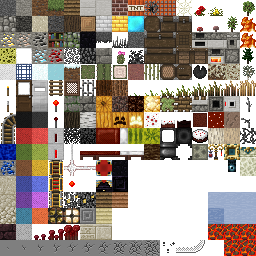
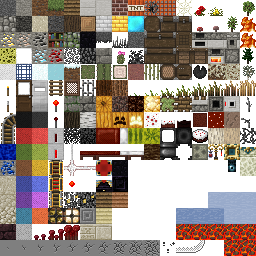
Add light shader and light render effect Add liquid animation and liquid render effect Modify the texture for liquid.

Changed region(s): [[0.6875, 0.8125, 0.8125, 0.9375]]

diff --git a/src/main/java/org/spout/vanilla/render/LightBatchEffect.java b/src/main/java/org/spout/vanilla/render/LightBatchEffect.java
@@ -1,3 +1,29 @@
+/*
+ * This file is part of Vanilla.
+ *
+ * Copyright (c) 2011-2012, VanillaDev <http://www.spout.org/>
+ * Vanilla is licensed under the SpoutDev License Version 1.
+ *
+ * Vanilla is free software: you can redistribute it and/or modify
+ * it under the terms of the GNU Lesser General Public License as published by
+ * the Free Software Foundation, either version 3 of the License, or
+ * (at your option) any later version.
+ *
+ * In addition, 180 days after any changes are published, you can use the
+ * software, incorporating those changes, under the terms of the MIT license,
+ * as described in the SpoutDev License Version 1.
+ *
+ * Vanilla is distributed in the hope that it will be useful,
+ * but WITHOUT ANY WARRANTY; without even the implied warranty of
+ * MERCHANTABILITY or FITNESS FOR A PARTICULAR PURPOSE.  See the
+ * GNU Lesser General Public License for more details.
+ *
+ * You should have received a copy of the GNU Lesser General Public License,
+ * the MIT license and the SpoutDev License Version 1 along with this program.
+ * If not, see <http://www.gnu.org/licenses/> for the GNU Lesser General Public
+ * License and see <http://www.spout.org/SpoutDevLicenseV1.txt> for the full license,
+ * including the MIT license.
+ */
 package org.spout.vanilla.render;
 
 import org.spout.api.render.effect.BatchEffect;

diff --git a/src/main/java/org/spout/vanilla/material/block/liquid/Water.java b/src/main/java/org/spout/vanilla/material/block/liquid/Water.java
@@ -28,21 +28,29 @@ package org.spout.vanilla.material.block.liquid;
 
 import java.util.Random;
 
+import org.spout.api.Spout;
 import org.spout.api.geo.cuboid.Block;
 import org.spout.api.geo.cuboid.Region;
 import org.spout.api.material.DynamicMaterial;
 import org.spout.api.material.Material;
 import org.spout.api.material.range.EffectIterator;
 import org.spout.api.material.range.EffectRange;
+import org.spout.api.plugin.Platform;
 
 import org.spout.vanilla.data.Climate;
 import org.spout.vanilla.material.VanillaMaterials;
 import org.spout.vanilla.material.block.Liquid;
+import org.spout.vanilla.render.BatchEffects;
 
 public class Water extends Liquid implements DynamicMaterial {
 	public Water(String name, int id, boolean flowing) {
 		super(name, id, flowing, "model://Vanilla/resources/materials/block/liquid/water/water.spm");
 		this.setFlowDelay(250);
+		if (Spout.getEngine().getPlatform() == Platform.CLIENT) {
+			if(!getModel().getRenderMaterial().getRenderEffects().contains(BatchEffects.LIQUID)){
+				getModel().getRenderMaterial().addRenderEffect(BatchEffects.LIQUID);
+			}
+		}
 		//TODO: Allow this to get past the tests
 		//this.setFlowDelay(VanillaConfiguration.WATER_DELAY.getInt());
 	}

diff --git a/src/main/java/org/spout/vanilla/material/block/liquid/Lava.java b/src/main/java/org/spout/vanilla/material/block/liquid/Lava.java
@@ -26,20 +26,28 @@
  */
 package org.spout.vanilla.material.block.liquid;
 
+import org.spout.api.Spout;
 import org.spout.api.geo.cuboid.Block;
 import org.spout.api.material.BlockMaterial;
 import org.spout.api.material.Material;
 import org.spout.api.material.block.BlockFace;
 import org.spout.api.material.block.BlockFaces;
+import org.spout.api.plugin.Platform;
 
 import org.spout.vanilla.data.effect.store.GeneralEffects;
 import org.spout.vanilla.material.VanillaMaterials;
 import org.spout.vanilla.material.block.Liquid;
+import org.spout.vanilla.render.BatchEffects;
 
 public class Lava extends Liquid {
 	public Lava(String name, int id, boolean flowing) {
 		super(name, id, flowing, "model://Vanilla/resources/materials/block/liquid/lava/lava.spm");
 		this.setFlowDelay(1500);
+		if (Spout.getEngine().getPlatform() == Platform.CLIENT) {
+			if(!getModel().getRenderMaterial().getRenderEffects().contains(BatchEffects.LIQUID)){
+				getModel().getRenderMaterial().addRenderEffect(BatchEffects.LIQUID);
+			}
+		}
 		//TODO: Allow this to get past the tests
 		//this.setFlowDelay(VanillaConfiguration.LAVA_DELAY.getInt());
 	}

diff --git a/src/main/java/org/spout/vanilla/render/LiquidRenderEffect.java b/src/main/java/org/spout/vanilla/render/LiquidRenderEffect.java
@@ -26,11 +26,23 @@
  */
 package org.spout.vanilla.render;
 
-import org.spout.api.render.effect.BatchEffect;
+import org.spout.api.math.Vector2;
 import org.spout.api.render.effect.RenderEffect;
+import org.spout.api.render.effect.SnapshotRender;
 
-public class BatchEffects {
-	public final static BatchEffect SKYTIMEBATCH = new LightBatchEffect();
-	public final static RenderEffect SKYTIME = new LightRenderEffect();
-	public final static RenderEffect LIQUID = new LiquidRenderEffect();
+public class LiquidRenderEffect implements RenderEffect {
+
+	private static final float size = 1.0f / 16.0f;
+	
+	@Override
+	public void preRender(SnapshotRender snapshotRender) {
+		float time = size * (System.currentTimeMillis() % 1000 / 1000.0f );
+		snapshotRender.getMaterial().getShader().setUniform("animation", new Vector2(0, time));
+	}
+
+	@Override
+	public void postRender(SnapshotRender snapshotRender) {
+
+	}
+
 }
